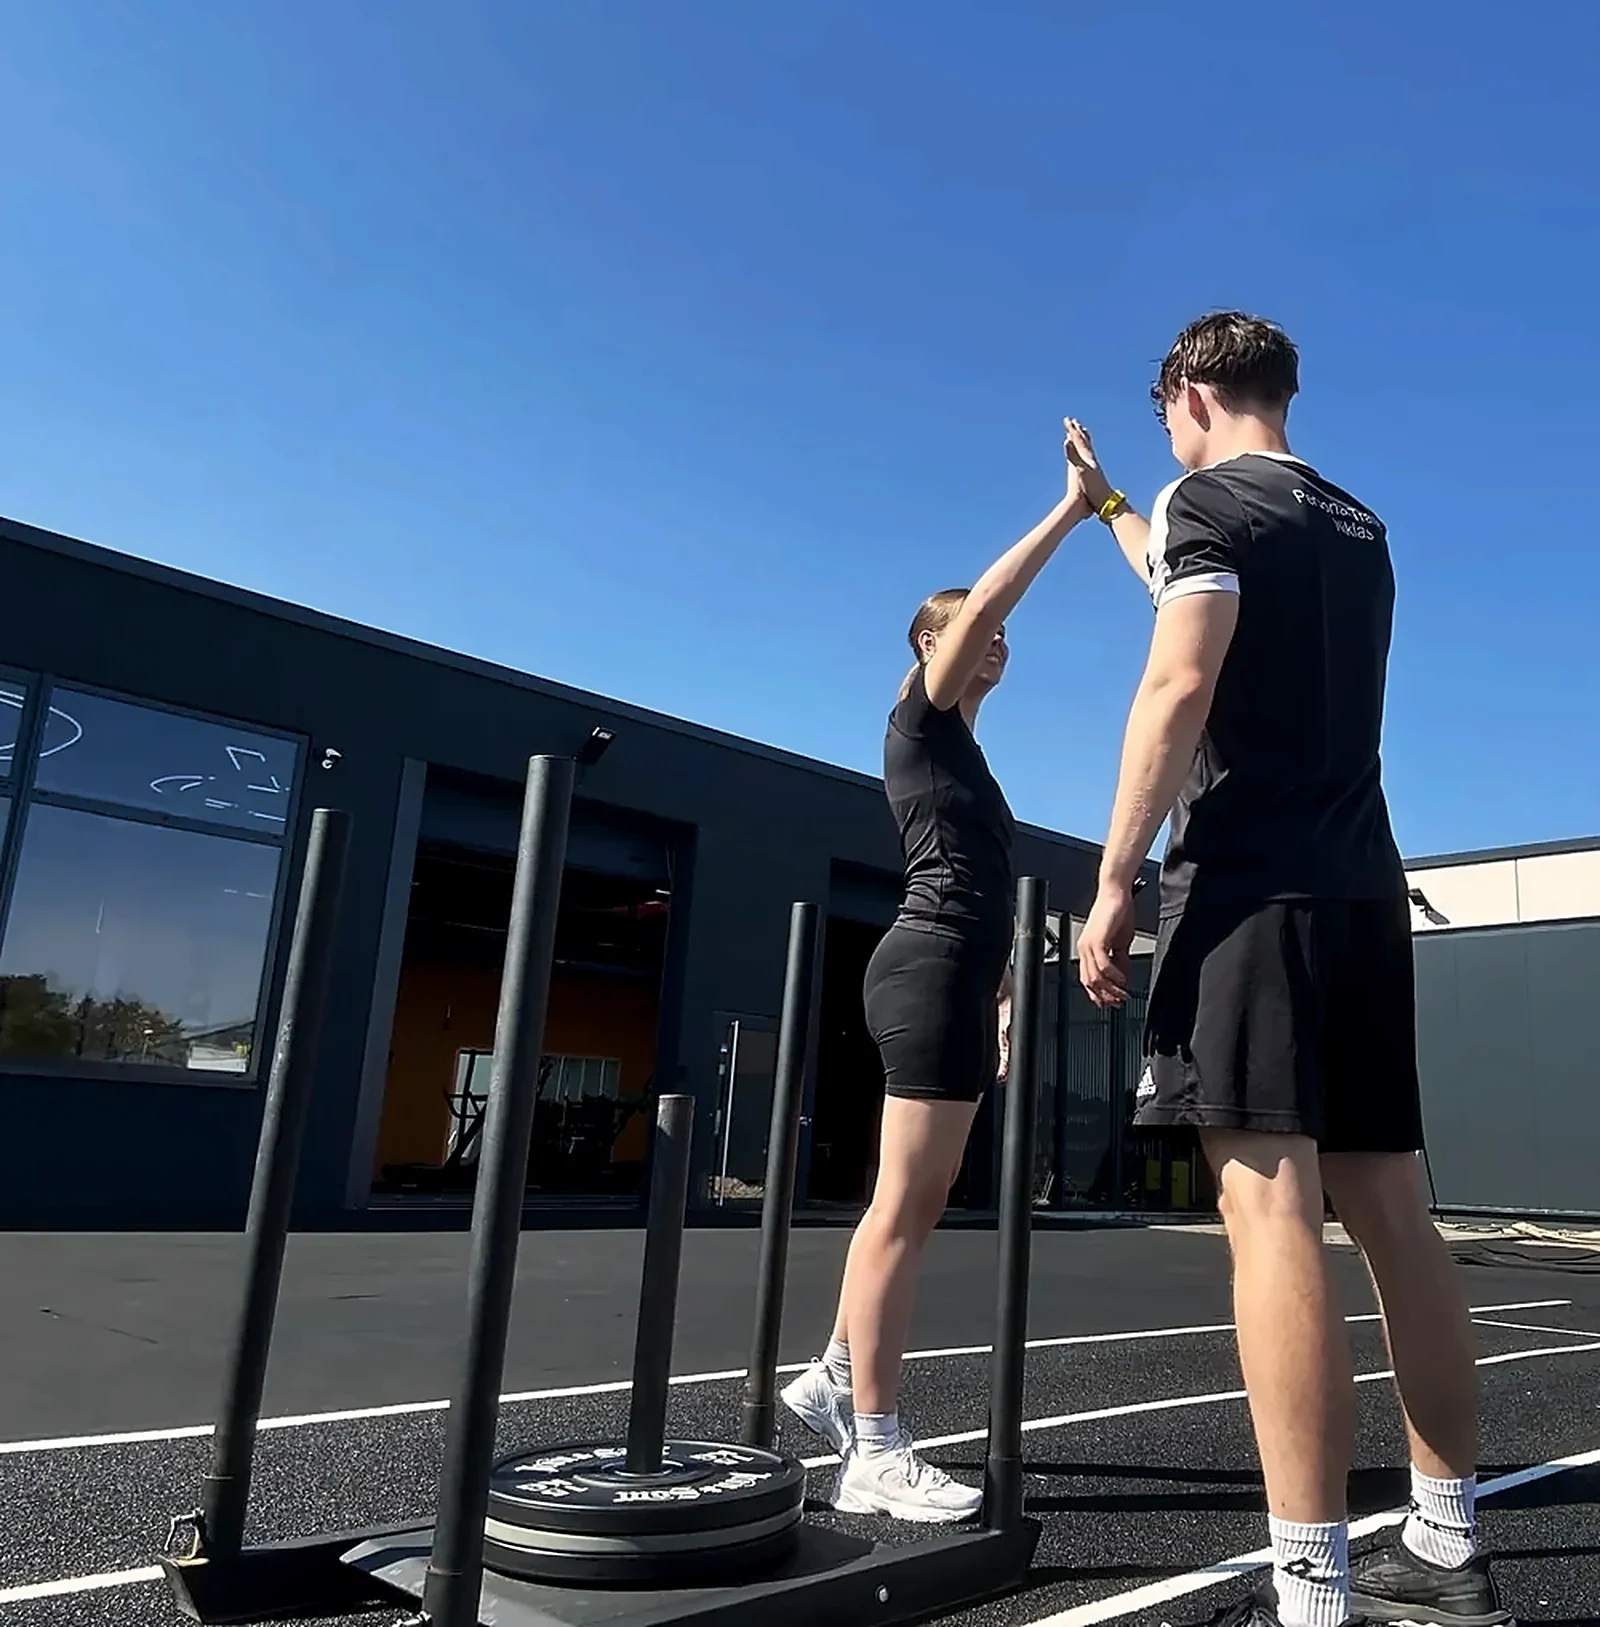
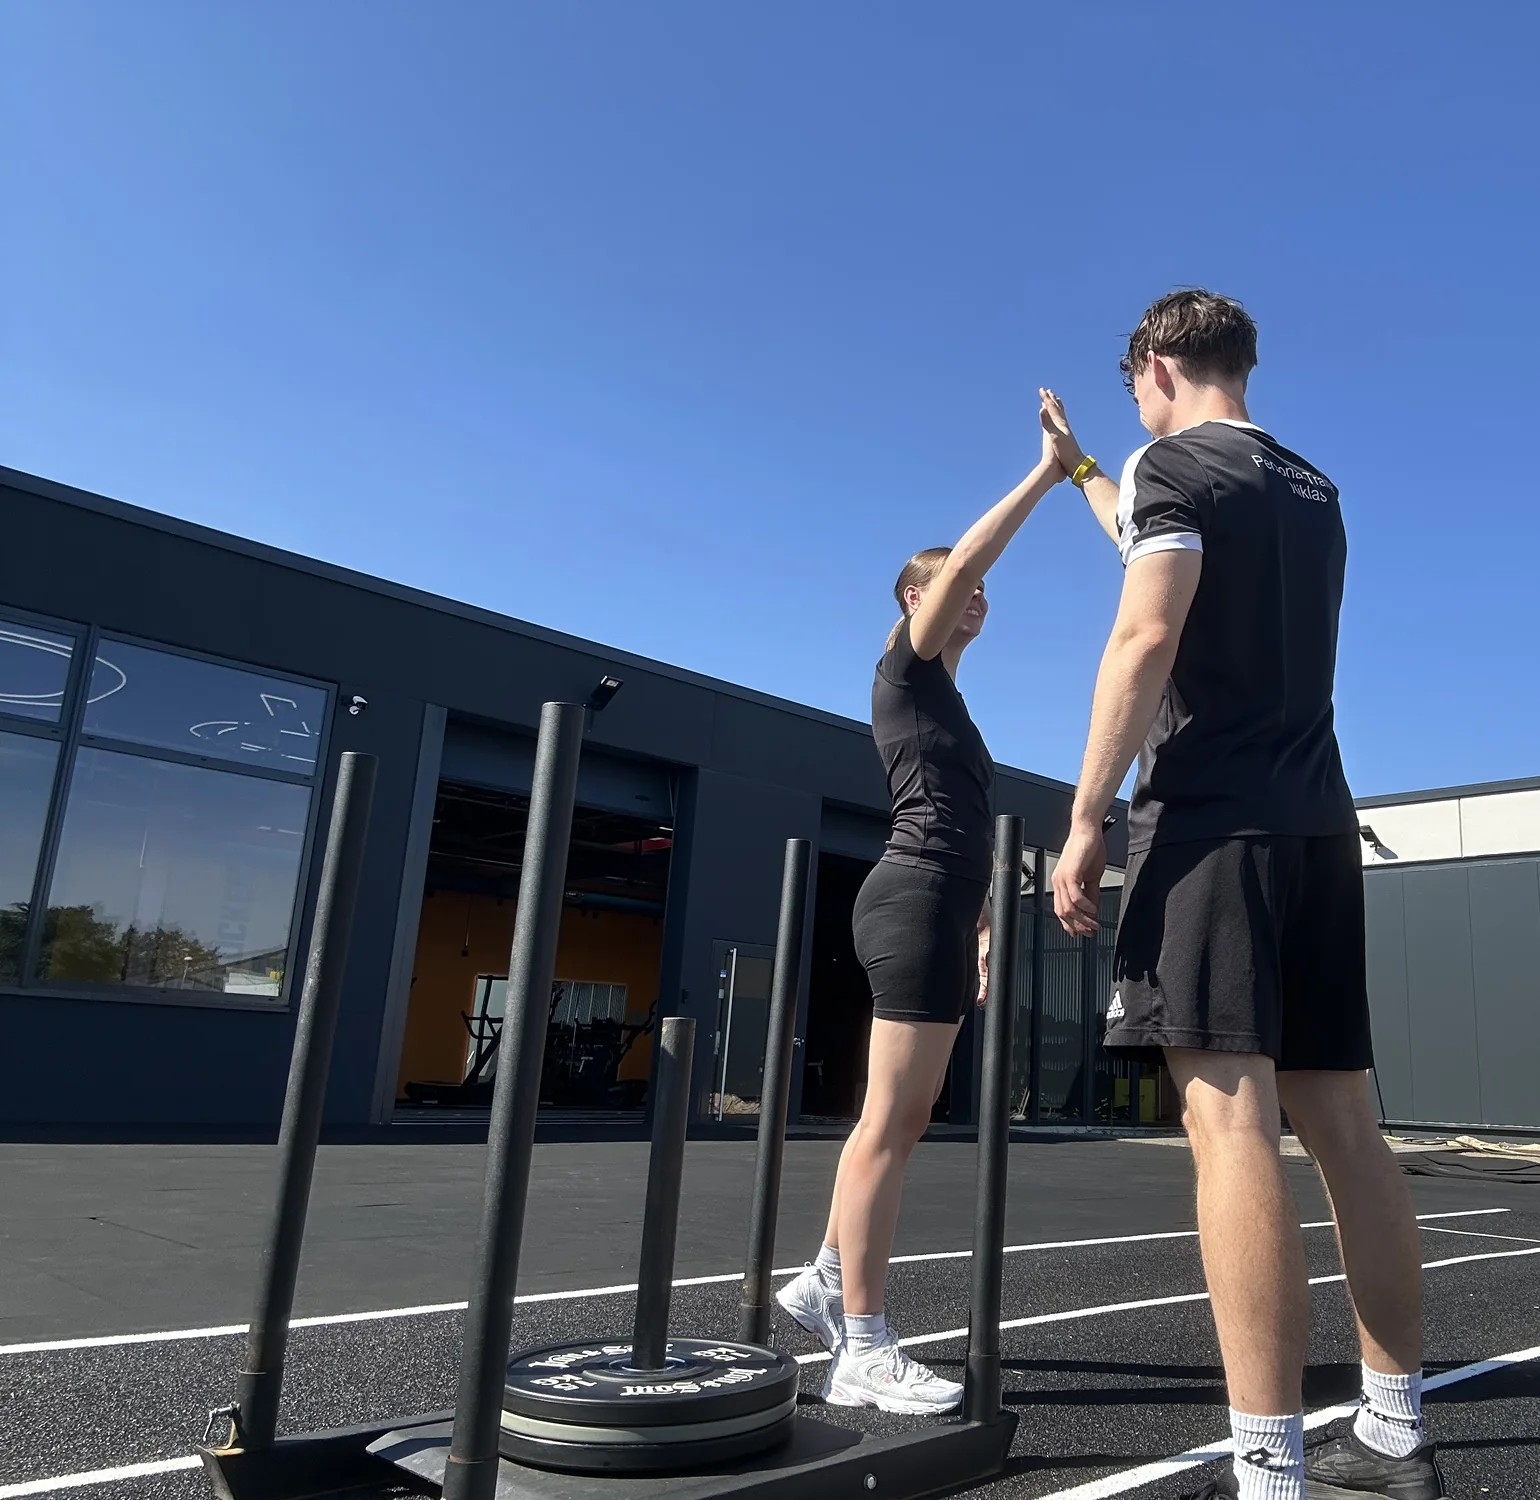
Abklatsch-Foto in Originalqualität (5 Seiten)

diff --git a/personal-training-solingen.html b/personal-training-solingen.html
@@ -482,7 +482,7 @@
 
 <section style="padding-top:0">
   <div class="wrap" style="max-width:820px">
-    <img src="trainer-highfive.webp" alt="Niklas Donner klatscht nach einer Trainingseinheit mit einer Kundin ab" loading="lazy" style="width:100%;aspect-ratio:16/10;object-fit:cover;border:1px solid var(--line);margin-bottom:32px">
+    <img src="trainer-highfive.webp?v=2" alt="Niklas Donner klatscht nach einer Trainingseinheit mit einer Kundin ab" loading="lazy" style="width:100%;aspect-ratio:16/10;object-fit:cover;object-position:50% 12%;border:1px solid var(--line);margin-bottom:32px">
     <div class="eyebrow">So l&auml;uft eine Einheit ab</div>
     <h2>60 Minuten,<br>die sitzen.</h2>
     <p style="color:#c9cbd0;margin-top:20px;font-size:16px">Ich bin vor dir da und habe alles bereitstehen. Wir starten mit einem kurzen Check-in: Wie ist die Woche gelaufen, wie hast du geschlafen, zwickt irgendwo etwas? Zwei Minuten, die entscheiden, wie die n&auml;chste Stunde aussieht.</p>

diff --git a/draussen.html b/draussen.html
@@ -70,7 +70,7 @@
   </div>
 </nav>
 <header class="page-hero fade-hero">
-  <figure class="fade-img" style="--pos:50% 30%;--posm:60% 35%"><img src="trainer-highfive-hd.webp" width="1600" height="1627" alt="Niklas Donner klatscht nach dem Training drau&szlig;en mit einer Kundin ab" fetchpriority="high"></figure>
+  <figure class="fade-img" style="--pos:50% 30%;--posm:60% 35%"><img src="trainer-highfive-hd.webp?v=2" width="1540" height="1500" alt="Niklas Donner klatscht nach dem Training drau&szlig;en mit einer Kundin ab" fetchpriority="high"></figure>
   <div class="wrap">
     <div class="eyebrow">Leistungen &middot; Drau&szlig;en</div>
     <h1>Training an<br>der frischen Luft.</h1>

diff --git a/index.html b/index.html
@@ -184,7 +184,7 @@
 <section class="about" id="trainer">
   <div class="watermark">Donner</div>
   <div class="wrap about-grid">
-    <img src="trainer-highfive.webp" alt="Niklas Donner klatscht nach einer Trainingseinheit mit einer Kundin auf der Hyrox-Fl&auml;che ab" loading="lazy" style="width:100%;border:1px solid var(--line)">
+    <img src="trainer-highfive.webp?v=2" alt="Niklas Donner klatscht nach einer Trainingseinheit mit einer Kundin auf der Hyrox-Fl&auml;che ab" loading="lazy" style="width:100%;border:1px solid var(--line)">
     <div class="about-text">
       <div class="eyebrow">Dein Trainer</div>
       <h2>Hi, ich bin Niklas.</h2>

diff --git a/kurse.html b/kurse.html
@@ -88,7 +88,7 @@
   </div>
 </nav>
 <header class="page-hero kanal-header">
-  <figure class="kanal-foto"><img src="trainer-highfive-hd.webp" width="1600" height="1627" alt="Niklas Donner klatscht nach dem Training mit einer Kundin ab" fetchpriority="high"></figure>
+  <figure class="kanal-foto"><img src="trainer-highfive-hd.webp?v=2" width="1540" height="1500" alt="Niklas Donner klatscht nach dem Training mit einer Kundin ab" fetchpriority="high"></figure>
   <div class="wrap kanal-hero">
     <div class="kanal-hero-text">
     <div class="eyebrow">Kurse in Solingen-Ohligs</div>

diff --git a/kanal.html b/kanal.html
@@ -69,7 +69,7 @@
   </div>
 </nav>
 <header class="page-hero kanal-header">
-  <figure class="kanal-foto"><img src="trainer-highfive-hd.webp" width="1600" height="1627" alt="Niklas Donner klatscht nach dem Training mit einer Kundin ab" fetchpriority="high"></figure>
+  <figure class="kanal-foto"><img src="trainer-highfive-hd.webp?v=2" width="1540" height="1500" alt="Niklas Donner klatscht nach dem Training mit einer Kundin ab" fetchpriority="high"></figure>
   <div class="wrap kanal-hero">
     <div class="kanal-hero-text">
     <div class="eyebrow">WhatsApp-Kanal</div>
